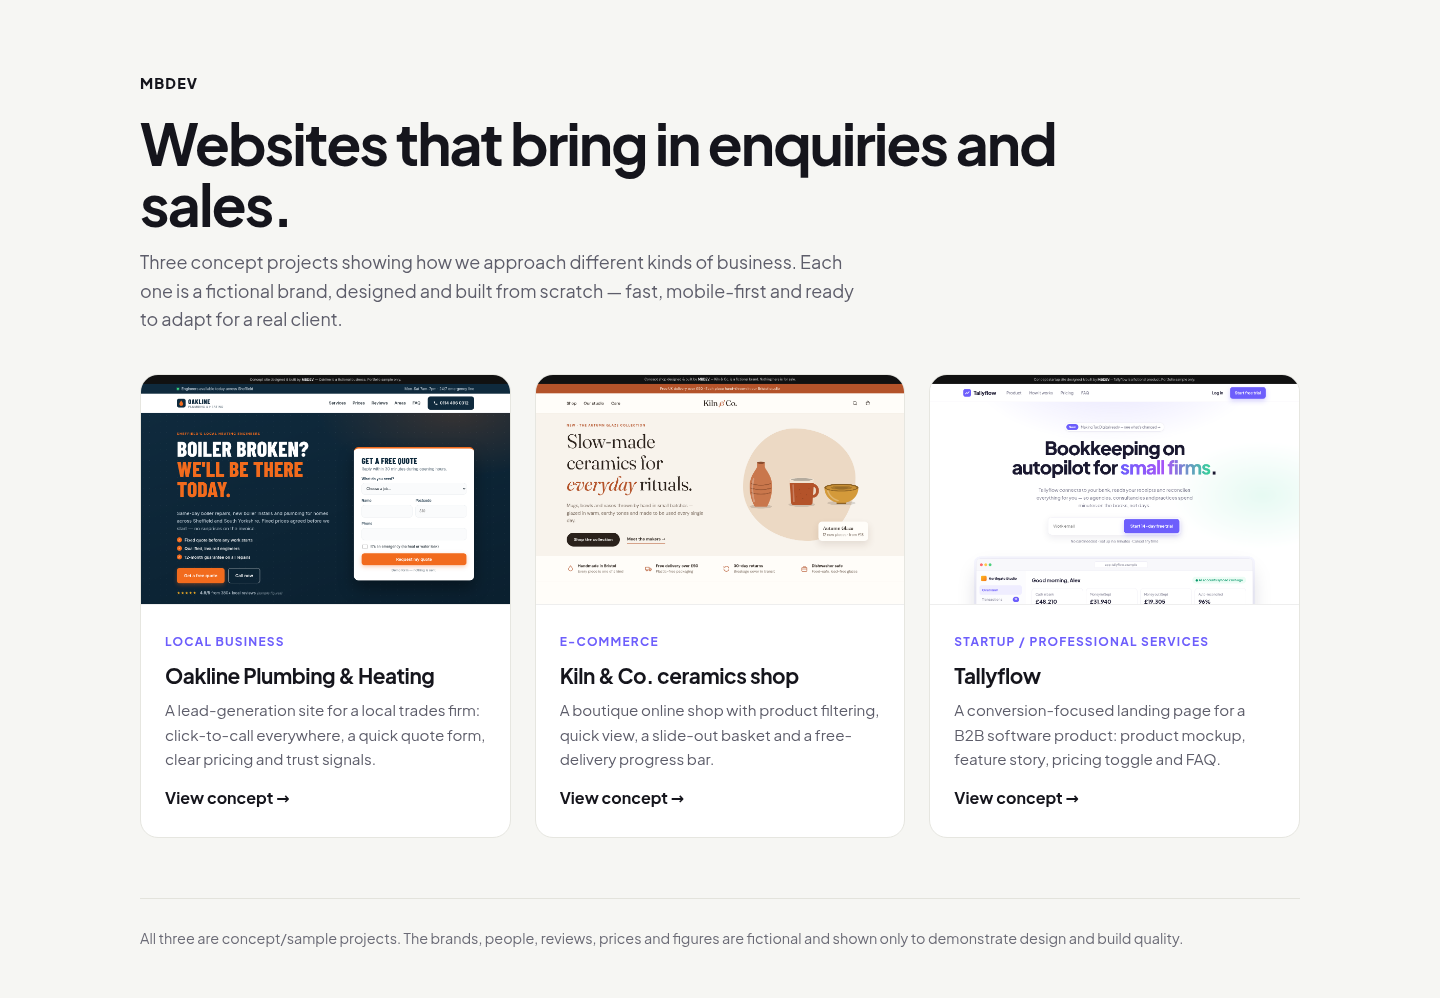
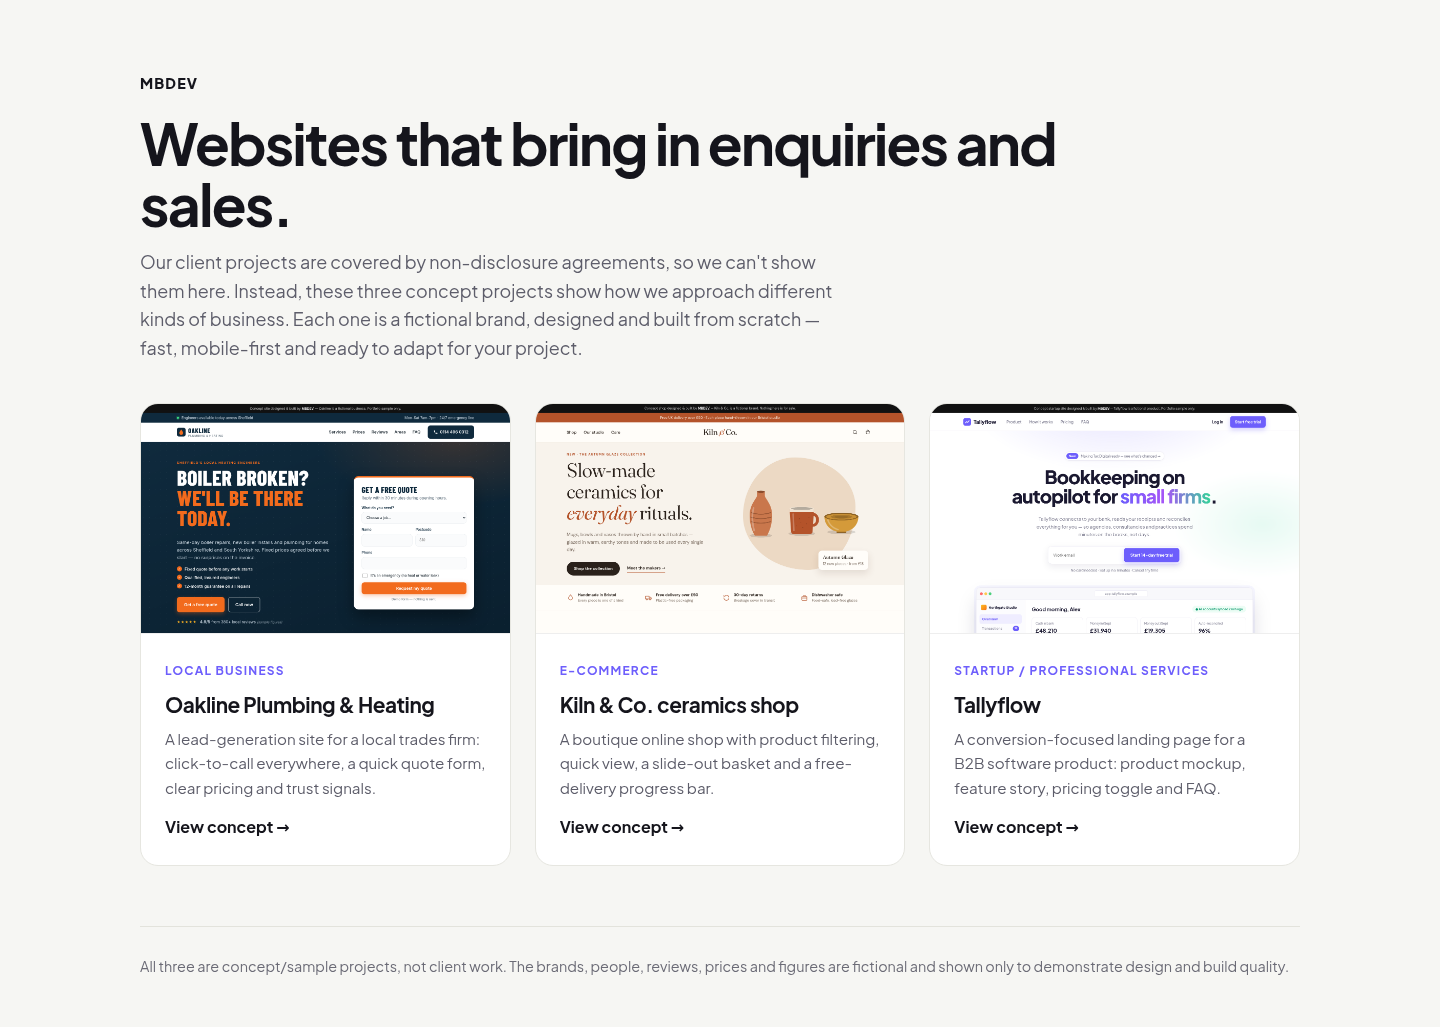
Hub page: explain client work is under NDA

diff --git a/index.html b/index.html
@@ -31,7 +31,7 @@
 <header class="wrap">
   <div class="brand">MBDEV</div>
   <h1>Websites that bring in enquiries and sales.</h1>
-  <p>Three concept projects showing how we approach different kinds of business. Each one is a fictional brand, designed and built from scratch — fast, mobile-first and ready to adapt for a real client.</p>
+  <p>Our client projects are covered by non-disclosure agreements, so we can't show them here. Instead, these three concept projects show how we approach different kinds of business. Each one is a fictional brand, designed and built from scratch — fast, mobile-first and ready to adapt for your project.</p>
 </header>
 <main class="wrap grid">
   <a class="card" href="trades/">
@@ -47,6 +47,6 @@
     <div><span class="tag">Startup / professional services</span><h2>Tallyflow</h2><p>A conversion-focused landing page for a B2B software product: product mockup, feature story, pricing toggle and FAQ.</p><span class="go">View concept →</span></div>
   </a>
 </main>
-<footer class="wrap">All three are concept/sample projects. The brands, people, reviews, prices and figures are fictional and shown only to demonstrate design and build quality.</footer>
+<footer class="wrap">All three are concept/sample projects, not client work. The brands, people, reviews, prices and figures are fictional and shown only to demonstrate design and build quality.</footer>
 </body>
 </html>
